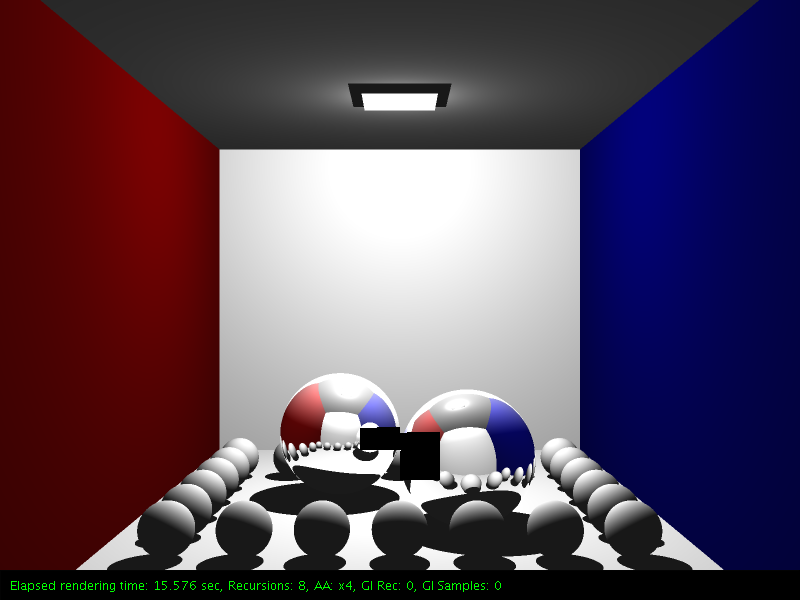
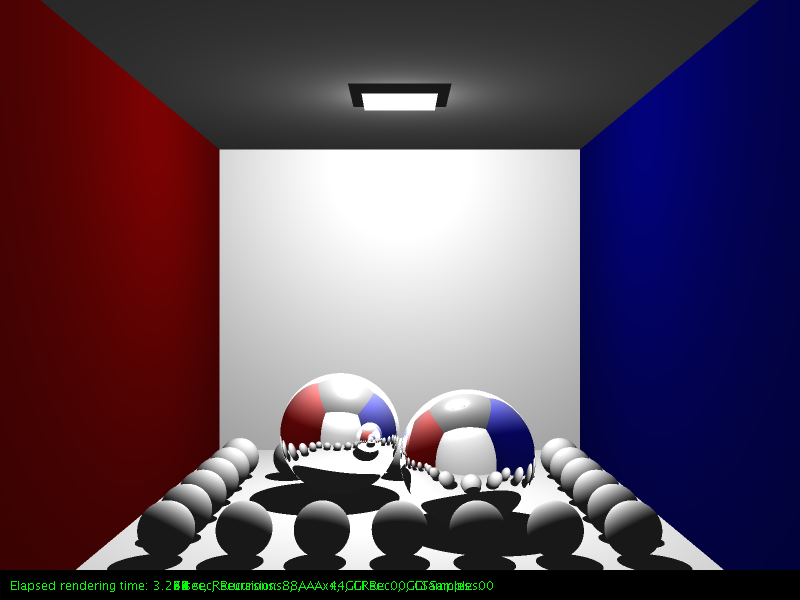
Make Reflections fast again!!

Changed region(s): [[0.1875, 0.96, 0.625, 0.99], [0.4375, 0.69, 0.5625, 0.81]]

diff --git a/VCG_Raytracer/src/raytracer/Raytracer.java b/VCG_Raytracer/src/raytracer/Raytracer.java
@@ -194,12 +194,11 @@ public class Raytracer {
             // Further recursions through objects, if the recursion is not finished and object is not diffuse
             if ( intersection.getShape().isReflective() ) {
                 recursionCounter -= 1;
-
-                directLight = getReflectiveColor(recursionCounter, giLevelCounter, directLight, intersection);
+                directLight = this.getReflectiveColor(recursionCounter, giLevelCounter, directLight, intersection);
             }
             if ( intersection.getShape().isRefractive() ) {
                 recursionCounter -= 1;
-                directLight = getRefractionColor(recursionCounter, giLevelCounter, directLight, intersection);
+                directLight = this.getRefractionColor(recursionCounter, giLevelCounter, directLight, intersection);
             }
             if ( mUseGI && intersection.getShape().getMaterial().isGiOn()){
                 // direct illumination + indirect illumination
@@ -235,14 +234,14 @@ public class Raytracer {
     private RgbColor getReflectiveColor(int recursionCounter, int giLevelCounter, RgbColor directLight, Intersection intersection) {
         Vec3 reflectionColorVec = new Vec3();
 
-        for(int i = 0; i < mBlurryLevel; i++) {
-            //float reflectivity = intersection.getShape().getMaterial().getReflectivity();
+        for(int i = 0; i < intersection.getShape().getMaterial().getReflection().blurryLevel; i++) {
+            //float reflectivity = intersection.getShape().getMaterial().getReflection().reflectivity;
             float reflectivity = intersection.calculateReflectivity();
             RgbColor reflectionColor = this.traceRay(recursionCounter, giLevelCounter, intersection.calculateReflectionRay(), directLight, intersection).multScalar(reflectivity);
             reflectionColorVec = reflectionColorVec.add(reflectionColor.colors);
         }
 
-        reflectionColorVec = reflectionColorVec.multScalar(1f / mBlurryLevel);
+        reflectionColorVec = reflectionColorVec.multScalar(1f / intersection.getShape().getMaterial().getReflection().blurryLevel);
 
         directLight = directLight.add(new RgbColor(reflectionColorVec));
         return directLight;

diff --git a/VCG_Raytracer/src/scene/materials/Reflection.java b/VCG_Raytracer/src/scene/materials/Reflection.java
@@ -4,6 +4,7 @@ public class Reflection {
 
 	public float blurryness;
 	public float reflectivity;
+	public float blurryLevel;
 
 	/* REFLECTION INDICES */
 	public static float TOTAL_REFLECTION = 1.0f;
@@ -20,8 +21,15 @@ public class Reflection {
 	public static float NANO_BLURRY = 80f;
 	public static float NO_BLURRY = 0.0f;
 
+	public static int BLURRY_RECURSIONS_MANY = 60;
+
 	public Reflection(float blurryness, float reflectivity){
 		this.blurryness = blurryness;
 		this.reflectivity = reflectivity;
+		this.blurryLevel = 1;
+
+		if(blurryness > 0){
+			this.blurryLevel = BLURRY_RECURSIONS_MANY;
+		}
 	}
 }
